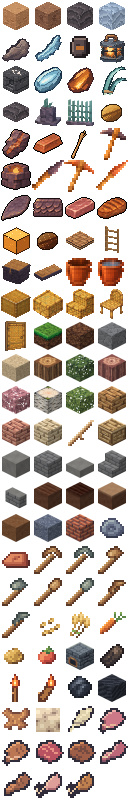
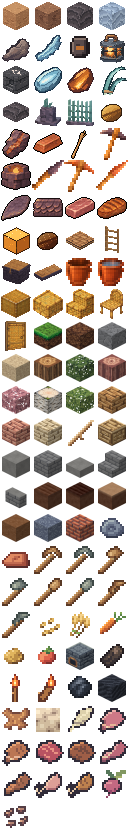
v0.196.0: beterraba do Orvalis pela Wiki
Quinta cultura da horta: 4 idades, 1/3 dos sorteios de crescimento não avança,
madura rende 1 beterraba e 1–4 sementes. Itens 100–101 (atlas de itens 4 × 26),
semente silvestre rara no capim e comida do porco na reprodução. Atlas da horta
ganha os 4 quadros depois dos 12 existentes. ADR 0127; sem mudança de gerador,
save nem protocolo.

Claude-Session: https://claude.ai/code/session_01KGdgoniDf5SwPMM31qtkm2

diff --git a/src/titan/items.ts b/src/titan/items.ts
@@ -4,7 +4,7 @@ import { BLOCK_NAMES, isCarpentry, isMarco, isPanel, isWorkbench, T } from './vo
  * Itens do Titã (ADR 0040). O id é o índice do sprite no atlas da hotbar + 1 (`render/art/titan.ts`): a ordem do atlas não depende da ordem dos espaços da barra.
  * Os quatro primeiros coincidem com os ids de bloco `T.SAND … T.FROST`.
  */
-export const Item = { SAND: 1, DAMP_SAND: 2, DARK_ROCK: 3, FROST: 4, ROCK_SHARD: 5, FROST_SHARD: 6, CAPSULE: 7, LANTERN: 8, WORKBENCH: 9, ICE_LENS: 10, EMBER: 11, GLASS_REED: 12, SLAB: 13, MARCO: 14, PAINEL: 15, NOZ: 16, COPPER_SHARD: 17, COPPER_INGOT: 18, DRY_REED: 19, STONE_PICK: 20, BRAZIER: 21, STONE_DAGGER: 22, COPPER_PICK: 23, COPPER_DAGGER: 24, PLATE: 25, CARAPACE: 26, RAW_MEAT: 27, COOKED_MEAT: 28, EMBER_BLOCK: 29, NOZ_TORRADA: 30, ESTEIRA: 31, ESCADA: 32, BAU: 33, CAMA: 34, BALDE: 35, BALDE_CHEIO: 36, BLOCO_JUNCO: 37, LAJE_JUNCO: 38, DEGRAU_JUNCO: 39, CADEIRA_JUNCO: 40, PORTA_JUNCO: 41, GRASS: 42, DIRT: 43, STONE: 44, BEACH: 45, LOG_OAK: 46, LEAVES_OAK: 47, LOG_CHERRY: 48, LEAVES_CHERRY: 49, LOG_BIRCH: 50, LEAVES_BIRCH: 51, TABUA_CARVALHO: 52, TABUA_CEREJEIRA: 53, TABUA_BETULA: 54, HASTE: 55, MESA_CARPINTARIA: 56, PEDRA_LISA: 57, TIJOLO_PEDRA: 58, LAJE_PEDRA: 59, DEGRAU_PEDRA: 60, MURETA_PEDRA: 61, TERRA_ARADA_SECA: 62, TERRA_ARADA_UMIDA: 63, CAMINHO_TERRA: 64, TERRA_INFERTIL: 65, BLOCO_ARGILA: 66, BLOCO_TIJOLOS: 67, BOLA_ARGILA: 68, TIJOLO: 69, PICARETA_MADEIRA: 70, PICARETA_PEDRA: 71, MACHADO_MADEIRA: 72, MACHADO_PEDRA: 73, PA_MADEIRA: 74, PA_PEDRA: 75, ENXADA_MADEIRA: 76, ENXADA_PEDRA: 77, SEMENTE_TRIGO: 78, TRIGO: 79, CENOURA: 80, BATATA: 81, TOMATE: 82, FORNALHA: 83, CARVAO_VEGETAL: 84, TOCHA: 85, CARVAO: 87, BLOCO_CARVAO: 88, COURO: 89, LA: 90, PENA: 91, PORCO_CRU: 92, PORCO_ASSADO: 93, BOVINA_CRUA: 94, BIFE: 95, CARNEIRO_CRU: 96, CARNEIRO_ASSADO: 97, FRANGO_CRU: 98, FRANGO_ASSADO: 99 } as const;
+export const Item = { SAND: 1, DAMP_SAND: 2, DARK_ROCK: 3, FROST: 4, ROCK_SHARD: 5, FROST_SHARD: 6, CAPSULE: 7, LANTERN: 8, WORKBENCH: 9, ICE_LENS: 10, EMBER: 11, GLASS_REED: 12, SLAB: 13, MARCO: 14, PAINEL: 15, NOZ: 16, COPPER_SHARD: 17, COPPER_INGOT: 18, DRY_REED: 19, STONE_PICK: 20, BRAZIER: 21, STONE_DAGGER: 22, COPPER_PICK: 23, COPPER_DAGGER: 24, PLATE: 25, CARAPACE: 26, RAW_MEAT: 27, COOKED_MEAT: 28, EMBER_BLOCK: 29, NOZ_TORRADA: 30, ESTEIRA: 31, ESCADA: 32, BAU: 33, CAMA: 34, BALDE: 35, BALDE_CHEIO: 36, BLOCO_JUNCO: 37, LAJE_JUNCO: 38, DEGRAU_JUNCO: 39, CADEIRA_JUNCO: 40, PORTA_JUNCO: 41, GRASS: 42, DIRT: 43, STONE: 44, BEACH: 45, LOG_OAK: 46, LEAVES_OAK: 47, LOG_CHERRY: 48, LEAVES_CHERRY: 49, LOG_BIRCH: 50, LEAVES_BIRCH: 51, TABUA_CARVALHO: 52, TABUA_CEREJEIRA: 53, TABUA_BETULA: 54, HASTE: 55, MESA_CARPINTARIA: 56, PEDRA_LISA: 57, TIJOLO_PEDRA: 58, LAJE_PEDRA: 59, DEGRAU_PEDRA: 60, MURETA_PEDRA: 61, TERRA_ARADA_SECA: 62, TERRA_ARADA_UMIDA: 63, CAMINHO_TERRA: 64, TERRA_INFERTIL: 65, BLOCO_ARGILA: 66, BLOCO_TIJOLOS: 67, BOLA_ARGILA: 68, TIJOLO: 69, PICARETA_MADEIRA: 70, PICARETA_PEDRA: 71, MACHADO_MADEIRA: 72, MACHADO_PEDRA: 73, PA_MADEIRA: 74, PA_PEDRA: 75, ENXADA_MADEIRA: 76, ENXADA_PEDRA: 77, SEMENTE_TRIGO: 78, TRIGO: 79, CENOURA: 80, BATATA: 81, TOMATE: 82, FORNALHA: 83, CARVAO_VEGETAL: 84, TOCHA: 85, CARVAO: 87, BLOCO_CARVAO: 88, COURO: 89, LA: 90, PENA: 91, PORCO_CRU: 92, PORCO_ASSADO: 93, BOVINA_CRUA: 94, BIFE: 95, CARNEIRO_CRU: 96, CARNEIRO_ASSADO: 97, FRANGO_CRU: 98, FRANGO_ASSADO: 99, BETERRABA: 100, SEMENTE_BETERRABA: 101 } as const;
 export type ItemId = (typeof Item)[keyof typeof Item];
 
 export const ITEM_NAMES: Record<number, string> = {
@@ -17,7 +17,7 @@ const ORVALIS_BLOCK_ITEMS: Readonly<Record<number, number>> = { ...Object.fromEn
 for (const [item, block] of Object.entries(ORVALIS_ITEM_BLOCKS)) ITEM_NAMES[Number(item)] = BLOCK_NAMES[block];
 Object.assign(ITEM_NAMES, { 70: 'Picareta de Madeira', 71: 'Picareta de Pedra', 72: 'Machado de Madeira', 73: 'Machado de Pedra', 74: 'Pá de Madeira', 75: 'Pá de Pedra', 76: 'Enxada de Madeira', 77: 'Enxada de Pedra' }); // ferramentas do Orvalis (ADR 0112)
 Object.assign(ITEM_NAMES, { 78: 'Semente de Trigo', 79: 'Trigo', 80: 'Cenoura', 81: 'Batata', 82: 'Tomate' }); // horta (ADR 0113)
-Object.assign(ITEM_NAMES, { 89: 'Couro', 90: 'Lã', 91: 'Pena', 92: 'Carne de Porco Crua', 93: 'Carne de Porco Assada', 94: 'Carne Bovina Crua', 95: 'Bife', 96: 'Carneiro Cru', 97: 'Carneiro Assado', 98: 'Frango Cru', 99: 'Frango Assado' }); // espólio da fauna de fazenda (ADR 0124; ícones provisórios, exceto couro e lã)
+Object.assign(ITEM_NAMES, { 89: 'Couro', 90: 'Lã', 91: 'Pena', 92: 'Carne de Porco Crua', 93: 'Carne de Porco Assada', 94: 'Carne Bovina Crua', 95: 'Bife', 96: 'Carneiro Cru', 97: 'Carneiro Assado', 98: 'Frango Cru', 99: 'Frango Assado', 100: 'Beterraba', 101: 'Semente de Beterraba' }); // espólio da fauna de fazenda (ADR 0124; ícones provisórios, exceto couro e lã)
 ITEM_NAMES[Item.CARVAO_VEGETAL] = 'Carvão Vegetal'; ITEM_NAMES[Item.CARVAO] = 'Carvão'; // item sem bloco (ADR 0122) // item sem bloco (ADR 0120; ícone provisório)
 ITEM_NAMES[Item.BOLA_ARGILA] = 'Bola de Argila'; ITEM_NAMES[Item.TIJOLO] = 'Tijolo'; // itens sem bloco (ADR 0111)
 ITEM_NAMES[Item.MURETA_PEDRA] = 'Mureta de Pedra'; // a conexão vem dos vizinhos (ADR 0110)
@@ -25,7 +25,7 @@ ITEM_NAMES[Item.DEGRAU_PEDRA] = 'Degrau de Pedra'; // sem entrada em ORVALIS_ITE
 ITEM_NAMES[Item.HASTE] = 'Haste de Madeira'; // item sem bloco (ADR 0107)
 /** Pilhas: blocos, fragmentos, lente e brasa até 64; cápsula (legada, id reservado), lanterna e mesa até 1 (a mesa 1 por espaço: é uma peça grande). */
 export const maxStack = (item: number): number => (item === Item.CAPSULE || item === Item.LANTERN || item === Item.WORKBENCH || isBucket(item) || isTool(item) ? 1 : 64);
-export const isItem = (n: unknown): n is ItemId => Number.isInteger(n) && (n as number) >= 1 && (n as number) <= 99 && n !== 86; // 86 é só a textura da Tocha de parede no atlas (ADR 0121)
+export const isItem = (n: unknown): n is ItemId => Number.isInteger(n) && (n as number) >= 1 && (n as number) <= 101 && n !== 86; // 86 é só a textura da Tocha de parede no atlas (ADR 0121)
 /** Balde de Cobre (ADR 0091): vazio recolhe uma célula do lago, cheio a despeja. Pergunte aqui, nunca compare ids soltos. */
 export const isBucket = (item: number | undefined | null): boolean => item === Item.BALDE || item === Item.BALDE_CHEIO;
 
@@ -89,7 +89,7 @@ export const dropCountOf = (block: number): number => (block === T.SLAB_DOUBLE ?
 
 /** Comida (ADR 0060): fome recuperada (pontos de 0 a 20) e saturação somada (como no Minecraft: `fome + saturação` limitada à fome). Provisório, pede teste em jogo. */
 export const FOOD: Readonly<Record<number, { hunger: number; saturation: number }>> = { [Item.NOZ]: { hunger: 4, saturation: 2.4 }, [Item.NOZ_TORRADA]: { hunger: 7, saturation: 5.6 }, [Item.RAW_MEAT]: { hunger: 2, saturation: 1.2 }, [Item.COOKED_MEAT]: { hunger: 8, saturation: 12.8 }, [Item.CENOURA]: { hunger: 3, saturation: 3.6 }, [Item.BATATA]: { hunger: 1, saturation: 0.6 }, [Item.TOMATE]: { hunger: 2, saturation: 2.4 },
-  [Item.PORCO_CRU]: { hunger: 3, saturation: 1.8 }, [Item.PORCO_ASSADO]: { hunger: 8, saturation: 12.8 }, [Item.BOVINA_CRUA]: { hunger: 3, saturation: 1.8 }, [Item.BIFE]: { hunger: 8, saturation: 12.8 }, [Item.CARNEIRO_CRU]: { hunger: 2, saturation: 1.2 }, [Item.CARNEIRO_ASSADO]: { hunger: 6, saturation: 9.6 }, [Item.FRANGO_CRU]: { hunger: 2, saturation: 1.2 }, [Item.FRANGO_ASSADO]: { hunger: 6, saturation: 7.2 } }; // carnes da fauna (ADR 0124): valores da Minecraft Wiki; a intoxicação do frango cru fica de fora // horta do Orvalis (ADR 0113): cenoura e batata como no Minecraft; o tomate é nosso (provisório)
+  [Item.PORCO_CRU]: { hunger: 3, saturation: 1.8 }, [Item.PORCO_ASSADO]: { hunger: 8, saturation: 12.8 }, [Item.BOVINA_CRUA]: { hunger: 3, saturation: 1.8 }, [Item.BIFE]: { hunger: 8, saturation: 12.8 }, [Item.CARNEIRO_CRU]: { hunger: 2, saturation: 1.2 }, [Item.CARNEIRO_ASSADO]: { hunger: 6, saturation: 9.6 }, [Item.FRANGO_CRU]: { hunger: 2, saturation: 1.2 }, [Item.FRANGO_ASSADO]: { hunger: 6, saturation: 7.2 }, [Item.BETERRABA]: { hunger: 1, saturation: 1.2 } }; // carnes da fauna (ADR 0124): valores da Minecraft Wiki; a intoxicação do frango cru fica de fora // horta do Orvalis (ADR 0113): cenoura e batata como no Minecraft; o tomate é nosso (provisório)
 export const foodOf = (item: number): { hunger: number; saturation: number } | null => FOOD[item] ?? null;
 
 /**

diff --git a/src/titan/crops.ts b/src/titan/crops.ts
@@ -9,9 +9,9 @@ import { T } from './voxel';
  */
 /** `umido`/`seco` = a areia sob a planta; a espécie é o que se plantou: o junco de vidro (a areia decide a variante) ou a Noz de Duna (só na areia ocre). */
 export type CropKind = 'umido' | 'seco';
-export type Species = 'junco' | 'noz' | 'trigo' | 'cenoura' | 'batata' | 'tomate';
+export type Species = 'junco' | 'noz' | 'trigo' | 'cenoura' | 'batata' | 'tomate' | 'beterraba';
 /** Horta do Orvalis em voxel (ADR 0113): cresce na terra arada (nunca na areia), 3 fases (0 broto, 1 crescendo, 2 madura). */
-export const GARDEN_SPECIES: readonly Species[] = ['trigo', 'cenoura', 'batata', 'tomate'];
+export const GARDEN_SPECIES: readonly Species[] = ['trigo', 'cenoura', 'batata', 'tomate', 'beterraba'];
 export const isGarden = (species: Species): boolean => GARDEN_SPECIES.includes(species);
 export interface Crop { x: number; y: number; z: number; age: number; species: Species }
 
@@ -36,10 +36,15 @@ export const soilKind = (block: number): CropKind | null => (block === T.DAMP_SA
 /** Idade da planta adulta: muda (0) → crescendo (1) → adulta (2); o ressecado tem muda (0) → ressecado (1). */
 export const maxAge = (kind: CropKind): number => (kind === 'umido' ? 2 : 1);
 /** Idade da planta adulta da espécie sobre a areia `soil`: a Noz tem 3 fases (broto, planta sem frutos, com frutos). */
-export const maxAgeOf = (species: Species, soil: CropKind): number => (species === 'noz' || isGarden(species) ? 2 : maxAge(soil));
+export const maxAgeOf = (species: Species, soil: CropKind): number => (species === 'beterraba' ? BEET_MAX_AGE : species === 'noz' || isGarden(species) ? 2 : maxAge(soil));
+/** Beterraba (ADR 0127, Wiki): 4 idades (0 a 3), cada sorteio de crescimento falha em 1/3 das vezes; madura rende 1 beterraba e 1–4 sementes. */
+export const BEET_MAX_AGE = 3;
+export const BEET_SKIP = 1 / 3;
+export const BEET_SEEDS = { min: 1, max: 4 } as const;
 export const isRipe = (species: Species, soil: CropKind, age: number): boolean => age >= maxAgeOf(species, soil);
 /** O que a colheita entrega e a idade para onde a planta recua. */
-export function harvestOf(species: Species, soil: CropKind): { item: number; count: number; backTo: number; label: string } {
+export function harvestOf(species: Species, soil: CropKind): { item: number; count: number; backTo: number; label: string; extra?: { item: number; min: number; max: number } } {
+  if (species === 'beterraba') return { item: Item.BETERRABA, count: 1, backTo: 0, label: 'beterraba', extra: { item: Item.SEMENTE_BETERRABA, ...BEET_SEEDS } }; // Wiki: 1 beterraba e 1–4 sementes (a planta volta a broto, como a horta do Orvalis)
   if (isGarden(species)) { const g = GARDEN_HARVEST[species]; return { item: g.item, count: GARDEN_YIELD, backTo: 0, label: g.label }; } // a planta volta a broto e rebrota (a planta-mãe nunca é arrancada, como no junco)
   if (species === 'noz') return { item: Item.NOZ, count: NUT_YIELD, backTo: 1, label: 'nozes' };
   return soil === 'umido' ? { item: Item.GLASS_REED, count: CROP_YIELD, backTo: 1, label: 'mudas de junco' } : { item: Item.DRY_REED, count: CROP_YIELD, backTo: 0, label: 'hastes secas' };
@@ -47,8 +52,8 @@ export function harvestOf(species: Species, soil: CropKind): { item: number; cou
 /** O item que volta ao chão quando o apoio da planta é quebrado (a muda ou a noz plantada). */
 export const seedOf = (species: Species): number => (isGarden(species) ? GARDEN_SEED[species] : species === 'noz' ? Item.NOZ : Item.GLASS_REED);
 /** O que cada planta da horta se planta e o que rende; a cenoura, a batata e o tomate se plantam com o próprio produto, o trigo com a semente (ADR 0113). */
-export const GARDEN_SEED: Readonly<Record<string, number>> = { trigo: Item.SEMENTE_TRIGO, cenoura: Item.CENOURA, batata: Item.BATATA, tomate: Item.TOMATE };
-const GARDEN_HARVEST: Readonly<Record<string, { item: number; label: string }>> = { trigo: { item: Item.TRIGO, label: 'trigo' }, cenoura: { item: Item.CENOURA, label: 'cenouras' }, batata: { item: Item.BATATA, label: 'batatas' }, tomate: { item: Item.TOMATE, label: 'tomates' } };
+export const GARDEN_SEED: Readonly<Record<string, number>> = { trigo: Item.SEMENTE_TRIGO, cenoura: Item.CENOURA, batata: Item.BATATA, tomate: Item.TOMATE, beterraba: Item.SEMENTE_BETERRABA };
+const GARDEN_HARVEST: Readonly<Record<string, { item: number; label: string }>> = { trigo: { item: Item.TRIGO, label: 'trigo' }, cenoura: { item: Item.CENOURA, label: 'cenouras' }, batata: { item: Item.BATATA, label: 'batatas' }, beterraba: { item: Item.BETERRABA, label: 'beterraba' }, tomate: { item: Item.TOMATE, label: 'tomates' } };
 export const GARDEN_YIELD = 2;
 /**
  * Semente silvestre (ADR 0113, provisório até haver plantas selvagens no gerador): quebrar um bloco de grama solta, pelo hash da célula (sempre o mesmo resultado), uma semente
@@ -56,7 +61,7 @@ export const GARDEN_YIELD = 2;
  */
 export function wildSeedAt(x: number, y: number, z: number): number | null {
   const h = (Math.imul(x, 73856093) ^ Math.imul(y, 19349663) ^ Math.imul(z, 83492791)) >>> 0, r = h % 24;
-  return r < 4 ? Item.SEMENTE_TRIGO : r === 4 ? Item.CENOURA : r === 5 ? Item.BATATA : r === 6 ? Item.TOMATE : null;
+  return r < 4 ? Item.SEMENTE_TRIGO : r === 4 ? Item.CENOURA : r === 5 ? Item.BATATA : r === 6 ? Item.TOMATE : r === 7 ? Item.SEMENTE_BETERRABA : null; // semente de beterraba rara (ADR 0127: o Orvalis não tem os baús de vila da Wiki)
 }
 /** Que planta o item na mão semeia (null = nenhuma). */
 export const gardenSpeciesOf = (item: number | undefined | null): Species | null => (GARDEN_SPECIES.find((sp) => GARDEN_SEED[sp] === item) ?? null);
@@ -69,8 +74,8 @@ export const soilKindFor = (species: Species, block: number): CropKind | null =>
 export const nutLook = (age: number): { scale: number; ripe: boolean } => ({ scale: age <= 0 ? 0.4 : 1, ripe: age >= 2 });
 /** Coluna do atlas de cultivo (`titan-cultivo-32px.webp`): 0 muda, 1 crescendo, 2 adulto de duas mudas, 3 ressecado. */
 /** Coluna do atlas da horta (`orvalis-horta-16px.webp`): espécie × 3 fases, depois das 4 do atlas de cultivo. */
-export const GARDEN_FRAMES = 12;
-export const gardenFrame = (species: Species, age: number): number => CROP_FRAMES + GARDEN_SPECIES.indexOf(species) * 3 + Math.min(2, Math.max(0, age));
+export const GARDEN_FRAMES = 16;
+export const gardenFrame = (species: Species, age: number): number => (species === 'beterraba' ? CROP_FRAMES + 12 + Math.min(BEET_MAX_AGE, Math.max(0, age)) : CROP_FRAMES + GARDEN_SPECIES.indexOf(species) * 3 + Math.min(2, Math.max(0, age))); // a beterraba (4 idades) fica depois dos 12 quadros das outras
 export const spriteFrame = (kind: CropKind, age: number): number => (kind === 'umido' ? Math.min(2, age) : age >= 1 ? 3 : 0);
 export const CROP_FRAMES = 4;
 
@@ -112,6 +117,7 @@ export function randomTick(crop: Crop, ctx: CropContext, rng: () => number): boo
   if (!kind || (crop.species === 'noz' && kind !== 'seco') || crop.age >= maxAgeOf(crop.species, kind) || ctx.light < CROP_MIN_LIGHT) return false;
   let points = growthPoints(ctx.soilAt);
   if (crowded(ctx.sameAt)) points *= 0.5;
+  if (crop.species === 'beterraba' && rng() < BEET_SKIP) return false; // Wiki: 1/3 dos sorteios de crescimento da beterraba não avançam
   if (rng() < growChance(points)) { crop.age++; return true; }
   return false;
 }

diff --git a/src/titan/orvalis/beterraba.test.ts b/src/titan/orvalis/beterraba.test.ts
@@ -1,0 +1,69 @@
+import { describe, expect, it } from 'vitest';
+import { collectItem, placeFromSlot } from '../actions';
+import { BEET_MAX_AGE, BEET_SEEDS, BEET_SKIP, type Crop, gardenFrame, GARDEN_FRAMES, gardenSpeciesOf, harvestOf, maxAgeOf, randomTick, seedOf, wildSeedAt } from '../crops';
+import { isBreedFood } from '../fauna';
+import { foodOf, isItem, Item, ITEM_NAMES, maxStack } from '../items';
+import { MemoryTitanStorage } from '../save';
+import { openSession } from '../session';
+import { T } from '../voxel';
+import { ORVALIS_GENERATOR_VERSION, OrvalisGenerator, orvalisGeneratorFor } from './generator';
+
+/** Beterraba do Orvalis (ADR 0127, Minecraft Wiki "Beetroot"): 4 idades, 1/3 dos sorteios falha, madura rende 1 beterraba e 1–4 sementes, comida do porco. */
+const open = async () => openSession(new MemoryTitanStorage(), 42, () => 1, orvalisGeneratorFor, ORVALIS_GENERATOR_VERSION, (sd, v) => new OrvalisGenerator(sd, v));
+
+describe('Beterraba: itens, comida e porco', () => {
+  it('itens 100 e 101, nomes, pilha 64 e comida da Wiki (1 de fome, 1,2 de saciedade)', () => {
+    expect(Item.BETERRABA).toBe(100); expect(Item.SEMENTE_BETERRABA).toBe(101);
+    expect(isItem(100) && isItem(101)).toBe(true); expect(isItem(102)).toBe(false);
+    expect(ITEM_NAMES[100]).toBe('Beterraba'); expect(ITEM_NAMES[101]).toBe('Semente de Beterraba'); expect(maxStack(100)).toBe(64);
+    expect(foodOf(Item.BETERRABA)).toEqual({ hunger: 1, saturation: 1.2 }); expect(foodOf(Item.SEMENTE_BETERRABA)).toBeNull();
+  });
+  it('a beterraba é comida do porco (Wiki), e só dele', () => {
+    expect(isBreedFood('porco', Item.BETERRABA)).toBe(true); expect(isBreedFood('vaca', Item.BETERRABA)).toBe(false); expect(isBreedFood('galinha', Item.SEMENTE_BETERRABA)).toBe(false);
+  });
+});
+
+describe('Beterraba: planta de 4 idades', () => {
+  it('semeia com a semente, 4 idades (0 a 3), quadros depois dos 12 das outras', () => {
+    expect(gardenSpeciesOf(Item.SEMENTE_BETERRABA)).toBe('beterraba'); expect(seedOf('beterraba')).toBe(Item.SEMENTE_BETERRABA); expect(gardenSpeciesOf(Item.BETERRABA)).toBeNull();
+    expect(maxAgeOf('beterraba', 'umido')).toBe(BEET_MAX_AGE); expect(BEET_MAX_AGE).toBe(3); expect(maxAgeOf('trigo', 'umido')).toBe(2);
+    expect([0, 1, 2, 3].map((a) => gardenFrame('beterraba', a))).toEqual([16, 17, 18, 19]); expect(gardenFrame('beterraba', 9)).toBe(19); expect(GARDEN_FRAMES).toBe(16);
+  });
+  it('1/3 dos sorteios não avança (Wiki): sorteio abaixo de 1/3 nunca sobe; acima, segue a chance normal', () => {
+    const mk = (): Crop => ({ x: 0, y: 70, z: 0, age: 0, species: 'beterraba' });
+    const ctx = { soilAt: () => 'umido' as const, sameAt: () => false, light: 15 };
+    const a = mk(); expect(randomTick(a, ctx, () => BEET_SKIP - 0.01)).toBe(false); expect(a.age).toBe(0);
+    const b = mk(); const seq = [BEET_SKIP + 0.1, 0]; expect(randomTick(b, ctx, () => seq.shift()!)).toBe(true); expect(b.age).toBe(1);
+    const t = { x: 0, y: 70, z: 0, age: 0, species: 'trigo' as const }; let n = 0; expect(randomTick(t, ctx, () => (n++ === 0 ? 0 : 1))).toBe(true); // o trigo não tem o descarte
+  });
+  it('não passa da idade 3', () => {
+    const c: Crop = { x: 0, y: 70, z: 0, age: 3, species: 'beterraba' };
+    expect(randomTick(c, { soilAt: () => 'umido', sameAt: () => false, light: 15 }, () => 0.99)).toBe(false);
+  });
+  it('a colheita é 1 beterraba e de 1 a 4 sementes', () => {
+    const h = harvestOf('beterraba', 'umido');
+    expect(h).toMatchObject({ item: Item.BETERRABA, count: 1, backTo: 0 }); expect(h.extra).toEqual({ item: Item.SEMENTE_BETERRABA, ...BEET_SEEDS }); expect(BEET_SEEDS).toEqual({ min: 1, max: 4 });
+  });
+});
+
+describe('Beterraba na sessão', () => {
+  const field = (s: Awaited<ReturnType<typeof open>>) => { const a = s.volume.gen.arrival, x = Math.floor(a.x) + 7, z = Math.floor(a.z) + 7, y = 150; s.volume.set(x, y, z, T.FARMLAND_WET); for (const yy of [y + 1, y + 2]) s.volume.set(x, yy, z, T.AIR); return { x, y, z, hit: { x, y, z, nx: 0, ny: 1, nz: 0 } }; };
+  const hold = (s: Awaited<ReturnType<typeof open>>, item: number, n = 1) => { s.inventory.add(item, n); s.selected = [...Array(9).keys()].find((i) => s.inventory.get(i)?.item === item)!; };
+  it('planta, só madura colhe: 1 beterraba e 1–4 sementes, e volta a broto', async () => {
+    const s = await open(); const f = field(s); hold(s, Item.SEMENTE_BETERRABA, 3);
+    expect(placeFromSlot(s, f.hit, s.selected).ok).toBe(true);
+    const c = s.crops.get(`${f.x},${f.y + 1},${f.z}`)!; expect(c.species).toBe('beterraba'); expect(c.age).toBe(0);
+    expect(collectItem(s, `crop:${f.x},${f.y + 1},${f.z}`)).toMatchObject({ ok: false, msg: 'Ainda está crescendo' }); // verde não colhe
+    c.age = 3;
+    const crop = { x: f.x, y: f.y + 1, z: f.z };
+    const antes = s.inventory.total(Item.SEMENTE_BETERRABA);
+    const r = collectItem(s, `crop:${crop.x},${crop.y},${crop.z}`);
+    expect(r.ok).toBe(true); expect(s.inventory.total(Item.BETERRABA)).toBe(1);
+    const ganhou = s.inventory.total(Item.SEMENTE_BETERRABA) - antes; expect(ganhou).toBeGreaterThanOrEqual(1); expect(ganhou).toBeLessThanOrEqual(4); expect(r.msg).toContain('beterraba');
+    expect(c.age).toBe(0);
+  });
+  it('semente silvestre rara no capim (hash da célula) e sempre igual', () => {
+    const seen = new Set<number | null>(); for (let x = 0; x < 40; x++) for (let z = 0; z < 40; z++) seen.add(wildSeedAt(x, 70, z));
+    expect(seen.has(Item.SEMENTE_BETERRABA)).toBe(true); expect(wildSeedAt(5, 70, 9)).toBe(wildSeedAt(5, 70, 9));
+  });
+});

diff --git a/src/titan/titan.css b/src/titan/titan.css
@@ -28,7 +28,7 @@ body.titan #world { position: fixed; inset: 0; width: 100%; height: 100%; displa
 .titan-hurt { position: absolute; inset: 0; opacity: 0; pointer-events: none; background: radial-gradient(ellipse at center, rgba(150, 24, 24, 0) 38%, rgba(150, 24, 24, 0.6) 100%); }
 .titan-hurt.on { animation: titan-hurt 0.4s ease-out; }
 @keyframes titan-hurt { from { opacity: 1; } to { opacity: 0; } }
-.titan-icon { display: block; width: var(--ic); height: var(--ic); background-size: calc(var(--ic) * 4) calc(var(--ic) * 25); image-rendering: pixelated; pointer-events: none; }
+.titan-icon { display: block; width: var(--ic); height: var(--ic); background-size: calc(var(--ic) * 4) calc(var(--ic) * 26); image-rendering: pixelated; pointer-events: none; }
 .titan-slot .key { position: absolute; top: 2px; left: 3px; font: 700 10px ui-monospace, monospace; color: #f2cc93; text-shadow: 1px 1px #171410; pointer-events: none; }
 .titan-slot .count { position: absolute; right: 3px; bottom: 1px; font: 700 11px ui-monospace, monospace; font-style: normal; color: #fff3df; text-shadow: 1px 1px #171410; pointer-events: none; }
 .titan-craft { display: grid; gap: 6px; max-width: 200px; }
@@ -77,7 +77,7 @@ body.titan-aim-finger .titan-cross { display: none; } /* mira no dedo: sem cruze
 /* Bolsa e livro de receitas (ADR 0047): hotbar de 9 com ☰ fora dos espaços; grupos | receitas | grade de fabricação e item final (a bolsa é o último grupo) */
 .titan-hotbar { width: var(--hbw); box-sizing: border-box; justify-content: space-between; }
 .titan-hbmenu { position: absolute; left: calc(50% + var(--hbw) / 2 + 8px); bottom: var(--hbb); width: calc(var(--slot) + 14px); height: calc(var(--slot) + 14px); padding: 0; font-size: 22px; line-height: 1; pointer-events: auto; }
-.titan-icon.md { display: block; flex: none; width: var(--icm); height: var(--icm); background-size: calc(var(--icm) * 4) calc(var(--icm) * 25); }
+.titan-icon.md { display: block; flex: none; width: var(--icm); height: var(--icm); background-size: calc(var(--icm) * 4) calc(var(--icm) * 26); }
 .titan-panel { position: absolute; z-index: 5; left: 50%; transform: translateX(-50%); width: min(calc(100vw - 16px), 724px); box-sizing: border-box; bottom: calc(var(--hbb) + var(--slot) + 14px + 5px);
   height: min(calc(100vh - var(--hbb) - var(--slot) - 14px - 5px - max(6px, env(safe-area-inset-top))), 420px);
   display: flex; flex-direction: column; padding: 5px; overflow: hidden; background: #171c20f7; border: 1px solid #765943; border-radius: 6px; pointer-events: auto; touch-action: none; }
@@ -170,7 +170,7 @@ body.titan input { user-select: text; -webkit-user-select: text; }
 .titan-furnace .titan-fcol { display: inline-flex; flex-direction: column; align-items: center; gap: 3px; min-width: 0; }
 .titan-furnace .flabel { color: #cdb89a; font-size: 11px; white-space: nowrap; }
 .titan-furnace .titan-fslot { width: var(--fsz); height: var(--fsz); border-width: 2px; }
-.titan-furnace .titan-fslot .titan-icon { width: var(--icm); height: var(--icm); background-size: calc(var(--icm) * 4) calc(var(--icm) * 25); }
+.titan-furnace .titan-fslot .titan-icon { width: var(--icm); height: var(--icm); background-size: calc(var(--icm) * 4) calc(var(--icm) * 26); }
 .titan-furnace .titan-fslot .count { font-size: 12px; right: 4px; bottom: 2px; }
 .titan-furnace .titan-fslot.out { --icm: 64px; width: var(--fbig); height: var(--fbig); } /* o resultado em escala 2× (inteira) */
 .titan-furnace .titan-fslot.out .count { font-size: 14px; right: 5px; bottom: 3px; }
@@ -187,7 +187,7 @@ body.titan input { user-select: text; -webkit-user-select: text; }
 /* Bolsa e livro de receitas (ADR 0047): hotbar de 9 com ☰ fora dos espaços; grupos | receitas | grade de fabricação e item final (a bolsa é o último grupo) */
 .titan-hotbar { width: var(--hbw); box-sizing: border-box; justify-content: space-between; }
 .titan-hbmenu { position: absolute; left: calc(50% + var(--hbw) / 2 + 8px); bottom: var(--hbb); width: calc(var(--slot) + 14px); height: calc(var(--slot) + 14px); padding: 0; font-size: 22px; line-height: 1; pointer-events: auto; }
-.titan-icon.md { display: block; flex: none; width: var(--icm); height: var(--icm); background-size: calc(var(--icm) * 4) calc(var(--icm) * 25); }
+.titan-icon.md { display: block; flex: none; width: var(--icm); height: var(--icm); background-size: calc(var(--icm) * 4) calc(var(--icm) * 26); }
 .titan-panel { position: absolute; z-index: 5; left: 50%; transform: translateX(-50%); width: min(calc(100vw - 16px), 724px); box-sizing: border-box; bottom: calc(var(--hbb) + var(--slot) + 14px + 5px);
   height: min(calc(100vh - var(--hbb) - var(--slot) - 14px - 5px - max(6px, env(safe-area-inset-top))), 420px);
   display: flex; flex-direction: column; padding: 5px; overflow: hidden; background: #171c20f7; border: 1px solid #765943; border-radius: 6px; pointer-events: auto; touch-action: none; }

diff --git a/src/titan/orvalis/horta.test.ts b/src/titan/orvalis/horta.test.ts
@@ -30,7 +30,7 @@ describe('horta do Orvalis (ADR 0113)', () => {
     expect(foodOf(Item.TRIGO)).toBeNull(); expect(foodOf(Item.SEMENTE_TRIGO)).toBeNull();
     for (const [sp, item] of SEEDS) { expect(gardenSpeciesOf(item)).toBe(sp); expect(seedOf(sp as never)).toBe(item); expect(maxAgeOf(sp as never, 'seco')).toBe(2); }
     expect(gardenSpeciesOf(Item.TRIGO)).toBeNull(); expect(gardenSpeciesOf(Item.NOZ)).toBeNull();
-    expect(GARDEN_SPECIES.flatMap((sp) => [0, 1, 2].map((a) => gardenFrame(sp, a)))).toEqual([...Array(12).keys()].map((n) => n + 4)); // atlas da horta depois das 4 do junco
+    expect(GARDEN_SPECIES.filter((sp) => sp !== 'beterraba').flatMap((sp) => [0, 1, 2].map((a) => gardenFrame(sp, a)))).toEqual([...Array(12).keys()].map((n) => n + 4)); // atlas da horta depois das 4 do junco
   });
 
   it('solo: a horta só na terra arada (úmida ou seca), o junco só na areia; a terra arada conta como solo só para a horta', () => {
@@ -82,7 +82,7 @@ describe('horta do Orvalis (ADR 0113)', () => {
     expect(breakOrCollect(s, f.hit).ok).toBe(true);
     expect(s.crops.size).toBe(0); expect([...s.drops.values()].some((d) => d.item === Item.TOMATE)).toBe(true);
     const seen = new Set<number | null>(); for (let x = 0; x < 30; x++) for (let z = 0; z < 30; z++) seen.add(wildSeedAt(x, 70, z));
-    expect([...seen].sort()).toEqual([null, Item.SEMENTE_TRIGO, Item.CENOURA, Item.BATATA, Item.TOMATE].sort());
+    expect([...seen].sort()).toEqual([null, Item.SEMENTE_TRIGO, Item.CENOURA, Item.BATATA, Item.TOMATE, Item.SEMENTE_BETERRABA].sort());
     expect(wildSeedAt(5, 70, 9)).toBe(wildSeedAt(5, 70, 9));
     s.inventory.add(Item.TRIGO, 1);
     expect(craft(s.inventory, recipeById('semente-trigo')!, null).ok).toBe(true); expect(s.inventory.total(Item.SEMENTE_TRIGO)).toBeGreaterThan(0);

diff --git a/src/titan/orvalis/carvao.test.ts b/src/titan/orvalis/carvao.test.ts
@@ -20,7 +20,7 @@ describe('carvão: blocos, itens e regras', () => {
     expect(T.COAL_ORE).toBe(150); expect(T.COAL_BLOCK).toBe(151);
     for (const id of [T.COAL_ORE, T.COAL_BLOCK]) { expect(isFull(id) && blocksLight(id)).toBe(true); expect(blockToolOf(id)).toBe('pick'); expect(surfaceOf(id)).toBe('rock'); }
     expect(tileFor(T.COAL_ORE, 'top')).toBe(tileIndex('orvalis/minerio-carvao')); expect(tileFor(T.COAL_BLOCK, 'side')).toBe(tileIndex('orvalis/bloco-carvao'));
-    expect(Item.CARVAO).toBe(87); expect(Item.BLOCO_CARVAO).toBe(88); expect(isItem(87) && isItem(88)).toBe(true); expect(isItem(86) || isItem(100)).toBe(false);
+    expect(Item.CARVAO).toBe(87); expect(Item.BLOCO_CARVAO).toBe(88); expect(isItem(87) && isItem(88)).toBe(true); expect(isItem(86) || isItem(102)).toBe(false);
     expect(ITEM_NAMES[87]).toBe('Carvão'); expect(ITEM_NAMES[88]).toBe('Bloco de Carvão'); expect(maxStack(87)).toBe(64);
     expect(blockOfItem(Item.BLOCO_CARVAO)).toBe(T.COAL_BLOCK); expect(blockOfItem(Item.CARVAO)).toBeNull();
     expect(itemOfBlock(T.COAL_ORE)).toBe(Item.CARVAO); expect(itemOfBlock(T.COAL_BLOCK)).toBe(Item.BLOCO_CARVAO); // o minério solta Carvão, nunca o bloco

diff --git a/src/titan/actions.ts b/src/titan/actions.ts
@@ -56,7 +56,13 @@ function collectCrop(s: TitanSession, id: string): ActionResult {
   s.inventory.add(h.item, h.count);
   crop.age = h.backTo;
   s.metaRev++;
-  return { ok: true, msg: `${h.count} ${h.label}` };
+  let extra = '';
+  if (h.extra) { // além do produto, sementes sorteadas (beterraba: 1–4, Wiki); sem lugar na mochila, caem no chão
+    const n = h.extra.min + Math.floor(hash2(s.seed, (Math.imul(crop.x, 73856093) ^ Math.imul(crop.z, 83492791)) | 0, crop.y + s.days * 1009 + Math.floor(s.time * 1000)) * (h.extra.max - h.extra.min + 1));
+    if (s.inventory.canAdd(h.extra.item, n)) s.inventory.add(h.extra.item, n); else restDrop(s, `seed:${crop.x},${crop.y},${crop.z}:s${s.days}:${Math.floor(s.time * 1000)}`, h.extra.item, crop.x, crop.y, crop.z, n);
+    extra = ` e ${n} ${n > 1 ? 'sementes' : 'semente'}`;
+  }
+  return { ok: true, msg: `${h.count} ${h.label}${extra}` };
 }
 
 /** A célula de cima do bloco apontado está livre para uma planta (ar, sem item, planta ou pilha solta)? */

diff --git a/src/titan/save.ts b/src/titan/save.ts
@@ -46,7 +46,7 @@ export interface TitanHeader {
   /** Plantas de Noz de Duna colhidas (ADR 0060): id `nut:x,y,z` → segundos de jogo para rebrotar. Ausente = todas maduras. */
   regrow?: Record<string, number>;
   /** Plantas de junco cultivadas (ADR 0083): `x,y,z` → idade (0 muda … 2 adulto); a Noz plantada vai como `{ s: 'noz', a: idade }`. Campo opcional: saves sem ele abrem sem plantas. */
-  crops?: Record<string, number | { s: 'noz' | 'trigo' | 'cenoura' | 'batata' | 'tomate'; a: number }>;
+  crops?: Record<string, number | { s: 'noz' | 'trigo' | 'cenoura' | 'batata' | 'tomate' | 'beterraba'; a: number }>;
   /** Baús (ADR 0089): `x,y,z` → 18 espaços `[item, contagem]` ou `[item, contagem, desgaste]` (vazio = null). Campo opcional: saves sem ele abrem com baús vazios. */
   /** Ponto de retorno (ADR 0090): a célula do pé da cama. Campo opcional: sem ele (ou sem a cama) o jogador volta à chegada. */
   spawn?: { x: number; y: number; z: number };

diff --git a/src/titan/orvalis/reproducao.test.ts b/src/titan/orvalis/reproducao.test.ts
@@ -16,7 +16,7 @@ const flat = (s: Awaited<ReturnType<typeof open>>) => { for (let y = 68; y <= 73
 describe('Comida e modo de amor (Wiki)', () => {
   it('vaca e ovelha: trigo; porco: cenoura e batata; galinha: semente de trigo', () => {
     expect(BREED_FOOD.vaca).toEqual([Item.TRIGO]); expect(BREED_FOOD.ovelha).toEqual([Item.TRIGO]);
-    expect(BREED_FOOD.porco).toEqual([Item.CENOURA, Item.BATATA]); expect(BREED_FOOD.galinha).toEqual([Item.SEMENTE_TRIGO]);
+    expect(BREED_FOOD.porco).toEqual([Item.CENOURA, Item.BATATA, Item.BETERRABA]); expect(BREED_FOOD.galinha).toEqual([Item.SEMENTE_TRIGO]);
     expect(isBreedFood('vaca', Item.CENOURA)).toBe(false); expect(isBreedFood('porco', Item.TRIGO)).toBe(false); expect(isBreedFood('galinha', Item.TRIGO)).toBe(false); expect(isBreedFood('porco', null)).toBe(false);
   });
   it('a comida certa põe o adulto em amor por 30 s; a errada não faz nada', () => {

diff --git a/src/titan/fauna.ts b/src/titan/fauna.ts
@@ -62,9 +62,9 @@ export const MATE_RANGE = 8;
 export const MATE_TOUCH = 1.2;
 export const MAX_FAUNA = 200;
 export const BABY_SCALE = 0.5;
-/** Comida de cada espécie (Wiki: vaca e ovelha trigo; porco cenoura, batata ou beterraba; galinha sementes). Sem beterraba e sem as outras sementes: ainda não são cultura do Orvalis. */
+/** Comida de cada espécie (Wiki: vaca e ovelha trigo; porco cenoura, batata ou beterraba; galinha sementes). A beterraba entrou com a cultura (ADR 0127); as outras sementes da galinha (abóbora, melancia…) ainda não são cultura do Orvalis. */
 export const BREED_FOOD: Readonly<Record<FaunaKind, readonly number[]>> = {
-  porco: [Item.CENOURA, Item.BATATA],
+  porco: [Item.CENOURA, Item.BATATA, Item.BETERRABA],
   vaca: [Item.TRIGO],
   ovelha: [Item.TRIGO],
   galinha: [Item.SEMENTE_TRIGO],

diff --git a/src/titan/orvalis/fauna.test.ts b/src/titan/orvalis/fauna.test.ts
@@ -196,7 +196,7 @@ describe('Itens 89–99, comida e receitas', () => {
   it('faixa do Orvalis, nomes, pilha 64 e atlas até o 99', () => {
     expect(Item.COURO).toBe(89); expect(Item.FRANGO_ASSADO).toBe(99);
     for (let i = 89; i <= 99; i++) { expect(isItem(i)).toBe(true); expect(ITEM_NAMES[i]).toBeTruthy(); expect(maxStack(i)).toBe(64); }
-    expect(isItem(100)).toBe(false);
+    expect(isItem(100) && isItem(101)).toBe(true); expect(isItem(102)).toBe(false); // 100–101 = beterraba (ADR 0127)
     expect(ITEM_NAMES[Item.BIFE]).toBe('Bife'); expect(ITEM_NAMES[Item.LA]).toBe('Lã');
   });
   it('comida da Wiki: carne crua e assada', () => {

diff --git a/src/render/titanRenderer.ts b/src/render/titanRenderer.ts
@@ -43,7 +43,7 @@ function pixelTexture(img: HTMLImageElement): THREE.Texture {
   return t;
 }
 /** Linhas do atlas de itens (4 colunas × 11 linhas de 32 px = 44 ids; 41 em uso, ADR 0102). */
-const ITEM_ROWS = 25;
+const ITEM_ROWS = 26;
 /** Brilho próprio da chama da tocha (0–1, antes do tom quente): a tocha também ilumina o que está em volta pelo motor de luz. */
 const TORCH_GLOW = 0.6;
 /** Salto de um item recém-solto e voo até o jogador ao ser recolhido, em segundos (ADR 0082). */
